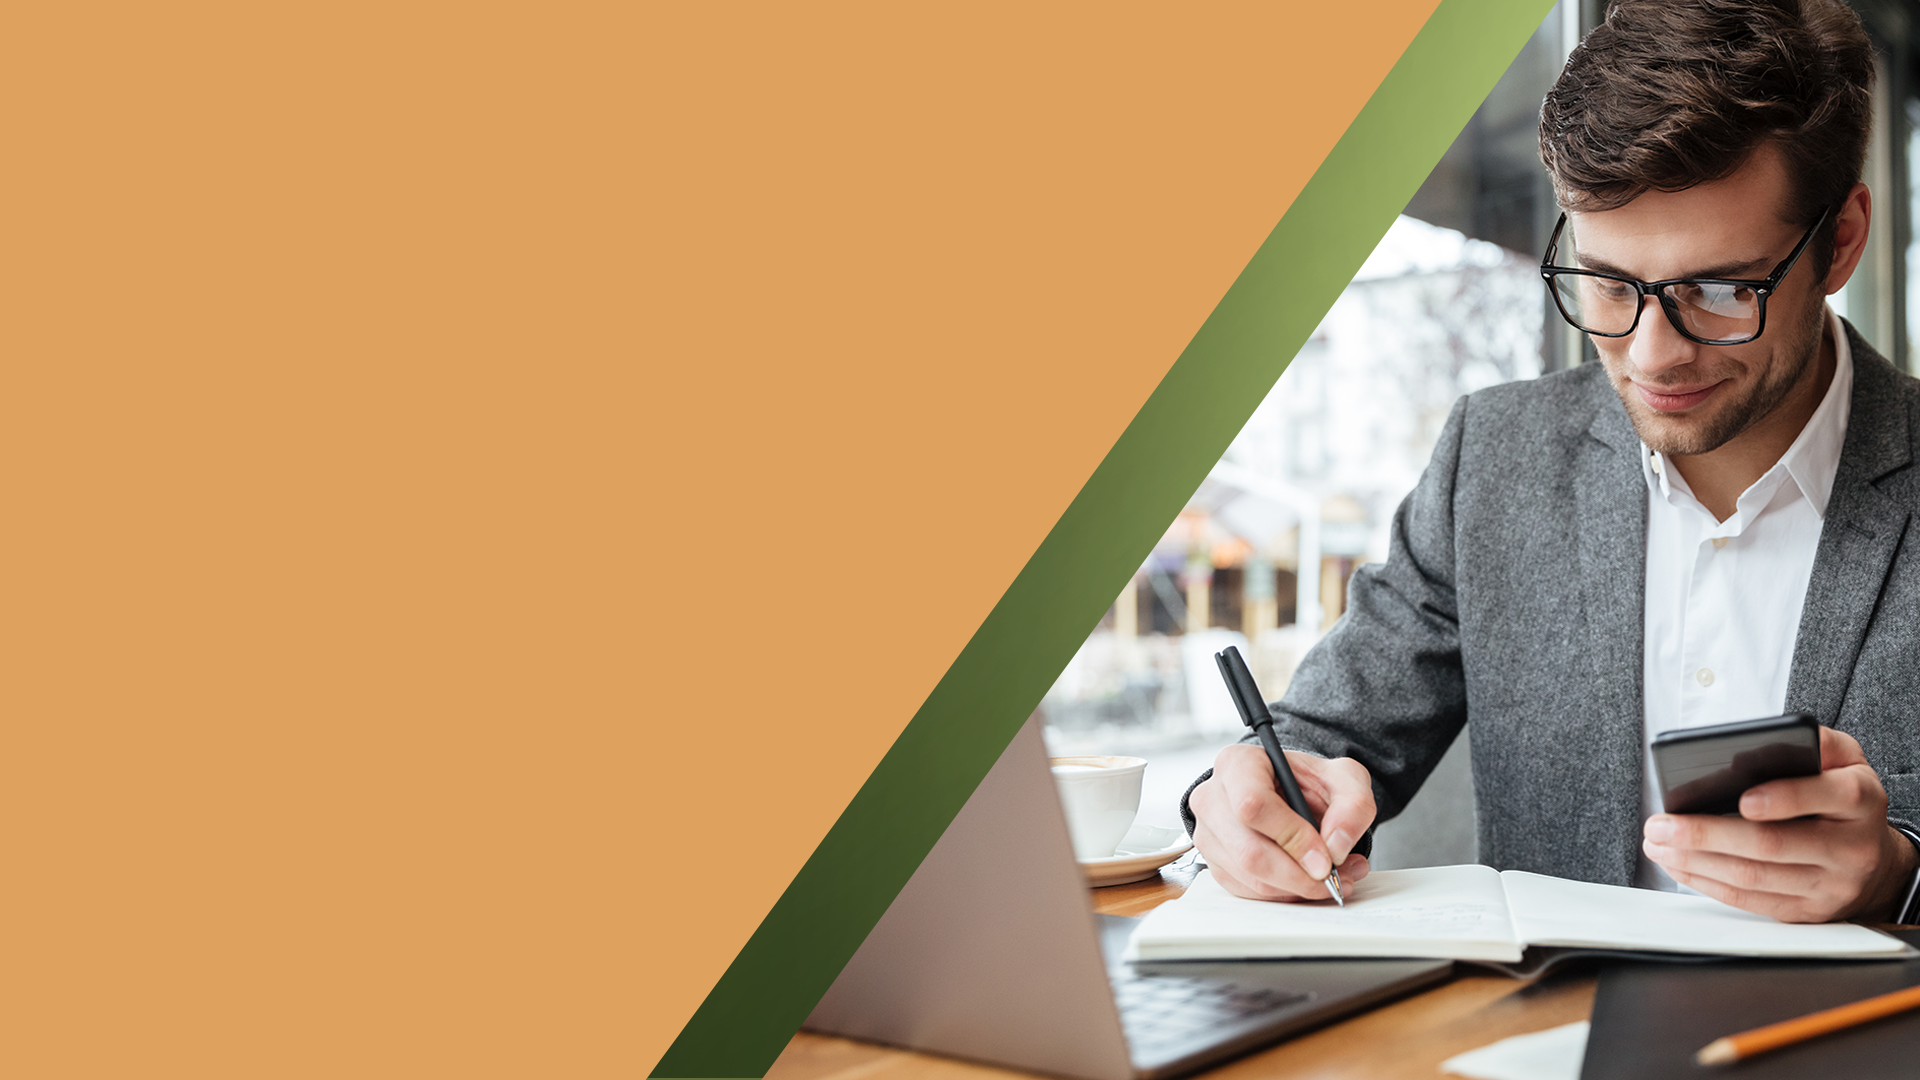
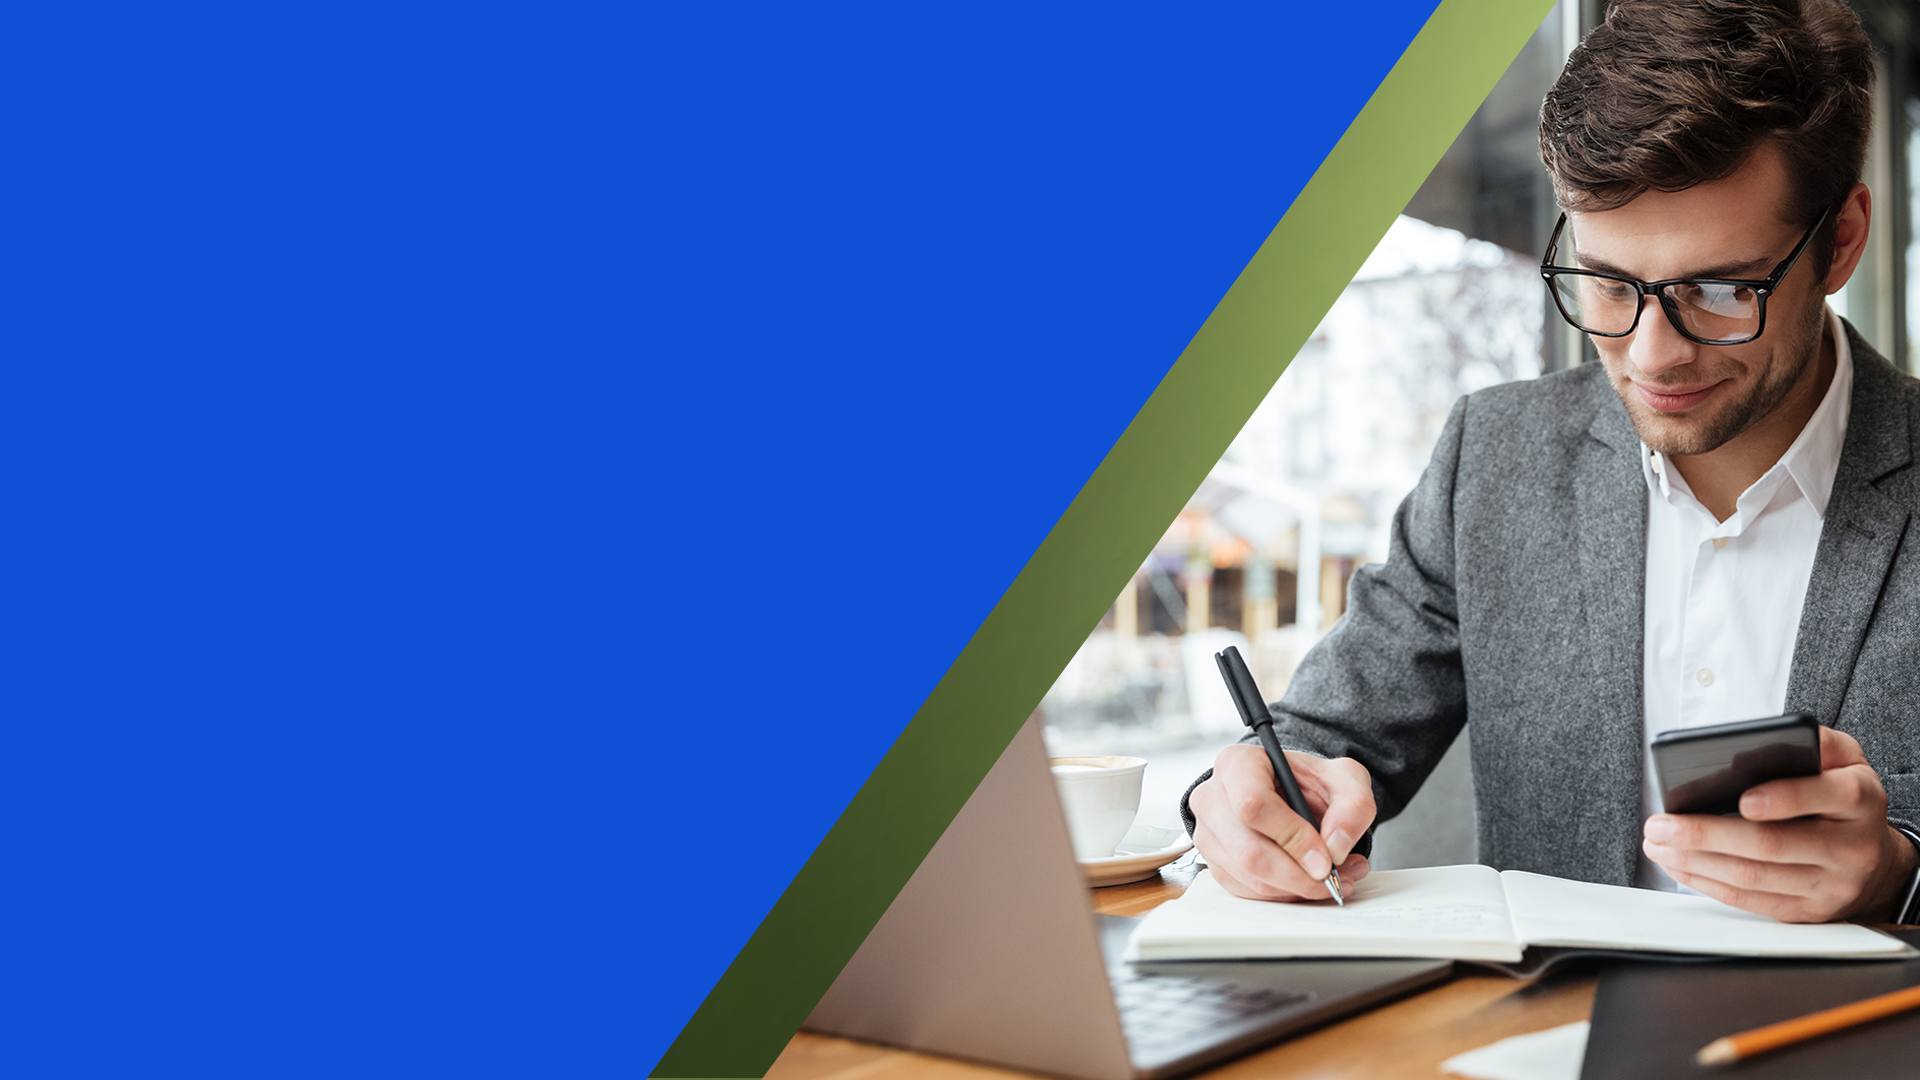
Style: Altera paleta de cores do projeto

diff --git a/assets/style.css b/assets/style.css
@@ -7,7 +7,7 @@
 }
 
 :root {
-  --cor-verde-escuro: #283618;
+  --cor-verde-escuro: #a6da84;
   --cor-verde-oliva: #606C38;
   --cor-laranja-terracota: #BC6C25;
   --cor-bege-dourado: #DDA15E;
@@ -105,8 +105,8 @@ img {
   display: inline-block; /* Permite fundo, padding e se ajusta ao conteúdo */
   
   /* Novas cores, como você pediu */
-  background-color: var(--cor-creme-claro);
-  color: var(--cor-verde-escuro);
+  background-color: var(--cor-verde-oliva);
+  color: var(--cor-creme-claro);
   
   /* Estilo de "botão" */
   padding: 1rem 2rem; /* Espaçamento interno para criar o corpo do "botão" */
@@ -145,7 +145,7 @@ img {
   font-weight: 600;
   font-size: var(--fs-h2);
   color: var(--cor-creme-claro);
-  background-color: var(--cor-verde-escuro); /* Cor final do botão */
+  background-color: var(--cor-verde-oliva); /* Cor final do botão */
   padding: 1.5rem 3rem;
   border-radius: 5px;
   text-transform: uppercase;
@@ -202,7 +202,7 @@ img {
 }
 
 .pitch-section h2 .highlight-orange {
-  color: var(--cor-bege-dourado); /* Cor laranja para o trecho destacado */
+  color: var(--cor-creme-claro); /* Cor laranja para o trecho destacado */
 }
 
 .check-item {
